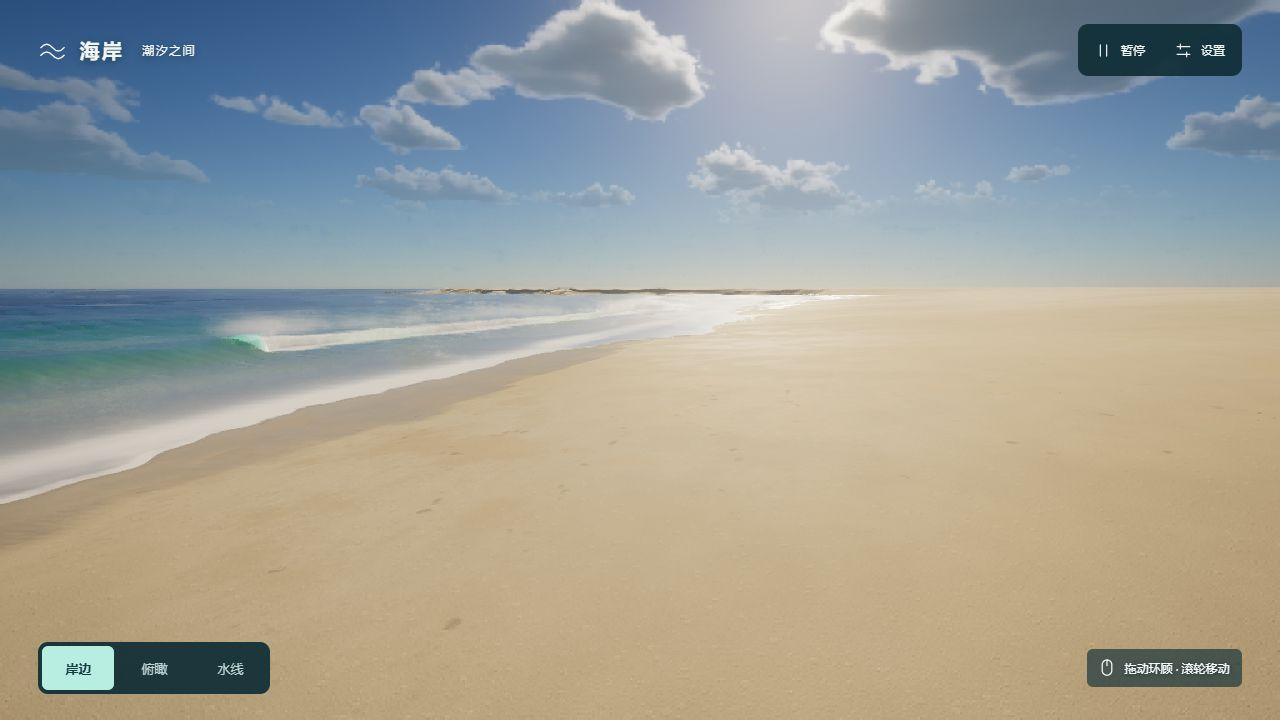
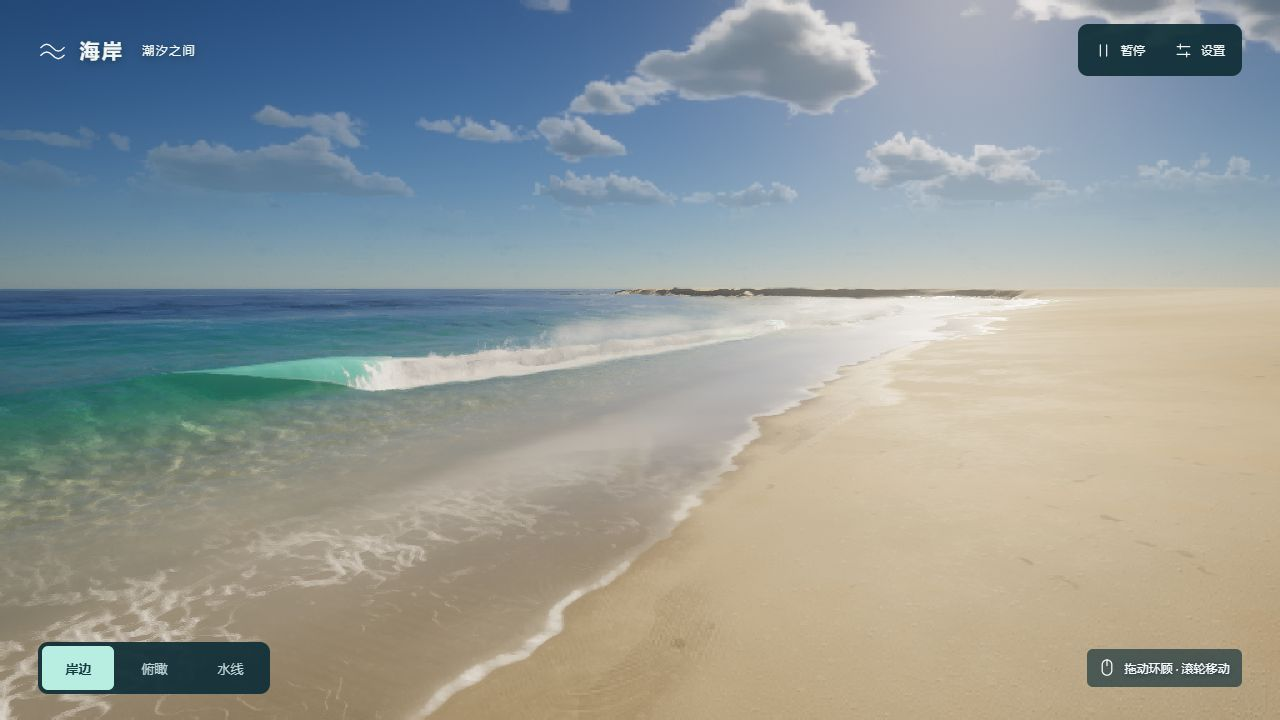
Halve beach footprint and show more water at the shore

diff --git a/src/tidewater/world/TerrainData.js b/src/tidewater/world/TerrainData.js
@@ -410,6 +410,25 @@ export class TerrainData {
 		}
 
 		tick( 'border' );
+
+		// Scale the baked footprint around the central shoreline; sqrt(1/2) per axis
+		// halves its area. Every CPU/GPU consumer receives this same resized heightmap.
+		const scale = Math.SQRT1_2;
+		const smaller = new Float32Array( H.length );
+		for ( let j = 0; j < res; j ++ ) {
+
+			const z = origin + ( j + 0.5 ) * this.texel;
+			const sourceZ = - 42 + ( z + 42 ) / scale;
+			for ( let i = 0; i < res; i ++ ) {
+
+				const x = origin + ( i + 0.5 ) * this.texel;
+				smaller[ j * res + i ] = sampleGrid( H, res, origin, this.texel, 10 + ( x - 10 ) / scale, sourceZ );
+
+			}
+
+		}
+		this.heights = smaller;
+		tick( 'beachSize' );
 		T.total = Object.values( T ).reduce( ( a, b ) => a + b, 0 );
 
 	}

diff --git a/src/tidewater/CoastalApp.js b/src/tidewater/CoastalApp.js
@@ -42,7 +42,7 @@ import { updateCameraVelocity, useStaticVelocity } from './post/CameraVelocity.j
 
 const up = new Vector3( 0, 1, 0 );
 const views = {
-	shore: { p: [ 70, 3.1, -57 ], yaw: 1.92, pitch: -0.12 },
+	shore: { p: [ 70, 3.1, -52 ], yaw: 2.18, pitch: -0.12 },
 	overview: { p: [ 60, 72, 125 ], yaw: Math.PI * 0.08, pitch: -0.49 },
 	waterline: { p: [ 12, 0.26, -16 ], yaw: 1.98, pitch: -0.02 },
 };

diff --git a/README.md b/README.md
@@ -1,6 +1,6 @@
 # 海岸 · 潮汐之间
 
-全屏实时海岸：海浪涌向沙滩，碎浪形成白沫，退水留下湿沙与泡沫。当前首页已替换“一束光”展览，使用 [Tidewater](https://dgreenheck.github.io/tidewater/) 的 MIT 开源海岸渲染代码，保留四级联 FFT 海浪、近岸波、冲滩模拟、沙地、折射、焦散、大气与体积云。后方山体压低为沙地，岩石与植被已移除，只呈现海面和沙滩。
+全屏实时海岸：海浪涌向沙滩，碎浪形成白沫，退水留下湿沙与泡沫。当前首页已替换“一束光”展览，使用 [Tidewater](https://dgreenheck.github.io/tidewater/) 的 MIT 开源海岸渲染代码，保留四级联 FFT 海浪、近岸波、冲滩模拟、沙地、折射、焦散、大气与体积云。后方山体压低为沙地，岩石与植被已移除，只呈现海面和沙滩。沙滩长宽各缩至原来的约 70.7%，实际陆地面积约为之前的一半。
 
 这是可自由移动的海岸环境查看器，交付范围是海浪与沙滩场景；未包含原作的钓鱼、船只、村庄、人物和声音。上游源码固定于 `4811ba48d795197de5621985f404e765c0b7c0ef`，来源及完整授权见 [THIRD_PARTY_NOTICES.md](THIRD_PARTY_NOTICES.md)。
 
@@ -45,4 +45,4 @@ npm run check
 npm run build
 ```
 
-`check` 验证入口依赖与本地资源、地形采样和法线、全域无高山、纯沙遮罩、原近岸高度、海岸传播场、CPU 海岸场保留及波向缓存；它不执行 GPU 渲染。`build` 生成生产资源。预览图是实际 WebGPU 浏览器截图；手机视口验证不等同于真实手机的 WebGPU 兼容性或帧率测量。
+`check` 验证入口依赖与本地资源、地形采样和法线、全域无高山、纯沙遮罩、沙滩面积减半、缩放后的近岸高度、海岸传播场、CPU 海岸场保留及波向缓存；它不执行 GPU 渲染。`build` 生成生产资源。预览图是实际 WebGPU 浏览器截图；手机视口验证不等同于真实手机的 WebGPU 兼容性或帧率测量。

diff --git a/PRODUCT.md b/PRODUCT.md
@@ -20,7 +20,7 @@ web
 
 ## Capabilities and Constraints
 
-- 复用 Tidewater 的四级联 FFT 海浪、近岸波、破碎浪、飞沫、冲滩泡沫、湿沙、天空与后处理。地形保留原近岸坡度，高处压低为沙地；山体、岩石和植被不出现在当前场景中。三维场景可自由移动。
+- 复用 Tidewater 的四级联 FFT 海浪、近岸波、破碎浪、飞沫、冲滩泡沫、湿沙、天空与后处理。高处压低为沙地，长宽各缩至原来的约 70.7%，陆地面积约减半；近岸高度随地形同步缩放，岸线及湿沙模拟重新计算。山体、岩石和植被不出现在当前场景中。三维场景可自由移动。
 - 岸边、俯瞰、水线三个预设位置；鼠标拖动或单指滑动环顾、滚轮前后移动、WASD 移动、Q / E 升降，Shift 加速。镜头为自由飞行模式，不提供游戏角色的地面碰撞或行走约束。
 - 时间、浪势、亮度和三档内部渲染比例可调。初始时间固定为 16:12，时间滑块改变日光而非自动巡游。恢复初始海岸不改变画质或暂停状态。
 - 暂停海浪后仍能调整镜头及光照；减少动态偏好使首次就绪状态默认暂停。页面隐藏时停止动画循环。

diff --git a/THIRD_PARTY_NOTICES.md b/THIRD_PARTY_NOTICES.md
@@ -11,7 +11,8 @@ reproduced below and in `src/tidewater/LICENSE`.
 
 The original ocean FFT, shore waves, breaking waves, spray, swash simulation,
 sand shading, terrain, atmosphere and postprocessing are
-retained. The terrain is adapted to a low sandy coast; mountains, scattered rocks
+retained. The terrain is adapted to a low sandy coast with half the former land
+area (each horizontal axis scaled by sqrt(0.5)); mountains, scattered rocks
 and procedural vegetation are removed from the active viewer. `CoastalApp.js`
 assembles these into an environment viewer. The input
 module was adapted for pointer/touch dragging and keyboard accessibility. Cloud

diff --git a/public/tidewater/THIRD_PARTY_NOTICES.md b/public/tidewater/THIRD_PARTY_NOTICES.md
@@ -11,7 +11,8 @@ reproduced below and in `src/tidewater/LICENSE`.
 
 The original ocean FFT, shore waves, breaking waves, spray, swash simulation,
 sand shading, terrain, atmosphere and postprocessing are
-retained. The terrain is adapted to a low sandy coast; mountains, scattered rocks
+retained. The terrain is adapted to a low sandy coast with half the former land
+area (each horizontal axis scaled by sqrt(0.5)); mountains, scattered rocks
 and procedural vegetation are removed from the active viewer. `CoastalApp.js`
 assembles these into an environment viewer. The input
 module was adapted for pointer/touch dragging and keyboard accessibility. Cloud
